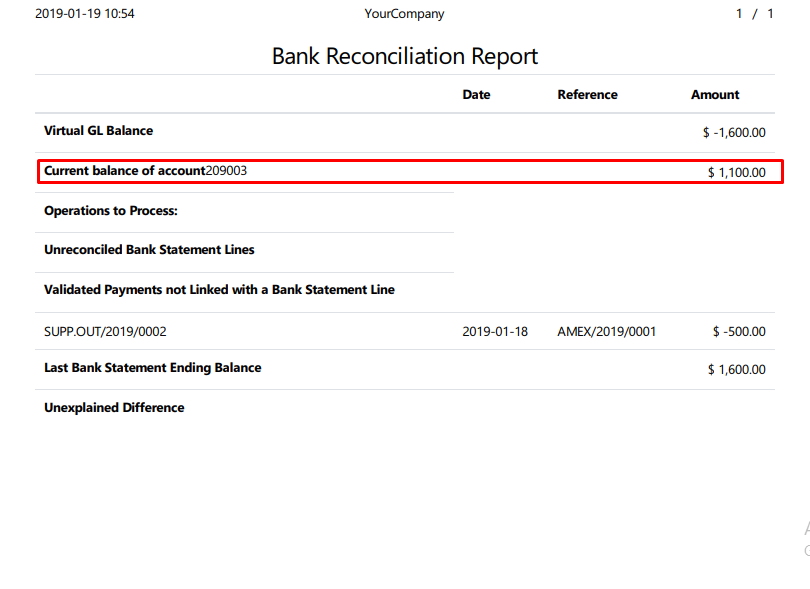
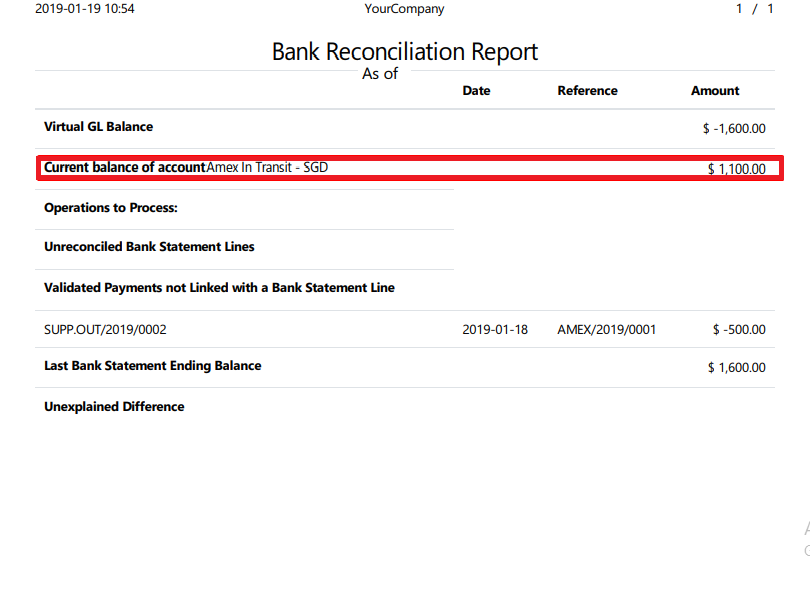
OCA-OD12-957-Migration for Bank Reconciliation Report *Changed popup and added in description *Resolved error while not using parameter. *Added Features in description

diff --git a/skit_addons/skit_bank_reconcil/static/description/index.html b/skit_addons/skit_bank_reconcil/static/description/index.html
@@ -2,16 +2,24 @@
     <div class="oe_row oe_spaced">
         <h2 class="oe_slogan" style="color:#875A7B">Bank Reconciliation Report</h2>
         <div style="margin-left:50px;margin-right:50px">
-        	<h3 class="oe_slogan" style="font-size: 1.3em; line-height: 2em; opacity:unset !important">This application helps you to download Bank Reconciliation Report.</h3>
+        	<h3 class="oe_slogan" style="font-size: 1.3em; line-height: 2em; opacity:unset !important">This application helps you to download Bank Reconciliation Report.<br></br>Reconciliation means matching actual transactions against bank statement.<br></br> This process of confirming the amount in both the company's ledger and in the bank account is called "Bank statement reconciliation".</h3>
+        </div>
+    </div>
+</section>
+<section class="oe_container  oe_dark" style="background-color: rgba(200, 200, 200, 0.14); padding-top: 1px;">
+    <div class="oe_row">
+        <h2 class="oe_slogan" style="color:#875A7B">Features</h2>
+         <div style="margin-left:50px;margin-right:50px">
+         <ul style="list-style-type:square; font-size: 1.3em; line-height: 2em; opacity:unset !important">
+         <li>Allow Bank Reconciliation Manually to reconcile with Bank Statement.</li>
+         <li>Bank Statement Reconciliation is possible against generated payment and receipt.</li>
+         <li>Generate PDF report with unreconciled statement line (came in bank statement but not matched with payment) and payment not linked with bank statement (Payments not come in statement).</li>
+         <li>Report will work based on as of date logic.</li>
+         </ul>
         </div>
     </div>
 </section>
 
-<section class="oe_container oe_dark">
-        <div class="oe_slogan">
-                <a  class="btn btn-primary btn-lg mt8" style="color: #FFFFFF !important;border-radius: 0;" href="https://youtu.be/KmJnc5t7Qok" target="_blank"> <i class="fa fa-youtube"></i> Watch the Video </a>
-        </div>
-</section>
 <section class="oe_container  oe_dark" style="background-color: rgba(200, 200, 200, 0.14); padding-top: 1px;">
     <div class="oe_row">
         <h2 class="oe_slogan" style="color:#875A7B">Purchase Order</h2>
@@ -42,7 +50,7 @@
         	<h3 class="oe_slogan" style="font-size: 1.3em; line-height: 2em; opacity:unset !important">In accounting dashboard, there will be a module name "Reporting"-> Bank Reconciliation. While click on that menu Bank Reconciliation, Popup will be shown, from that have to choose journal which you want.Then click on print button report will download.</h3>
         </div>
         <div>
-            <img class="img-border img-responsive thumbnail oe_picture oe_gif" src="popup.png" />
+            <img class="img-border img-responsive thumbnail oe_picture oe_gif" src="menupopup.png" />
         </div>
     </div>
 </section>
@@ -52,7 +60,7 @@
         	<h3 class="oe_slogan" style="font-size: 1.3em; line-height: 2em; opacity:unset !important">Accounting Dashboard where for specific Journal you will find 'Difference' label, while click on difference label popup will show to download report for that journal.</h3>
         </div>
         <div>
-            <img class="img-border img-responsive thumbnail oe_picture oe_gif" src="differpopup.png" />
+            <img class="img-border img-responsive thumbnail oe_picture oe_gif" src="dashboardpopup.png" />
         </div>
     </div>
 </section>

diff --git a/skit_addons/skit_bank_reconcil/report/reconcil_report.py b/skit_addons/skit_bank_reconcil/report/reconcil_report.py
@@ -12,22 +12,37 @@ class SkitBankReconcilReport(models.AbstractModel):
         data = data if data is not None else {}
         if(data.get('skit_report_type') == 'pdf'):
             journal_id = data.get('journal_id')
+            date_from = data.get('date_from')
+            date_to = data.get('date_to')
         else:
             journal_id = data['form']['journal_id'][0]
+            date_from = data['form']['date_from']
+            date_to = data['form']['date_to']
         journal = self.env['account.journal'].search([('id','=', journal_id)])
         last_bank_stmt = self.env['account.bank.statement'].search([('journal_id', '=', journal.id)], order="date desc, id desc", limit=1)
         last_balance = last_bank_stmt and last_bank_stmt[0].balance_end or 0
         
-        gl_code = journal.default_debit_account_id.code
+        gl_code = journal.default_debit_account_id.name
         default_debit_acc_id = journal.default_debit_account_id.id
         
         #Virtual GL Balance:
         account_ids = tuple(filter(None, [journal.default_debit_account_id.id, journal.default_credit_account_id.id]))
         amount_field = 'balance' if (not journal.currency_id or journal.currency_id == journal.company_id.currency_id) else 'amount_currency'
         current_balance = 0
+        ids =str(account_ids)
         if account_ids:
-            query = """SELECT sum(%s) FROM account_move_line WHERE account_id in %%s AND date <= %%s;""" % (amount_field)
-            self.env.cr.execute(query, (account_ids,fields.Date.today(),))
+            query = """SELECT sum("""+amount_field+""") FROM account_move_line WHERE account_id in """+(ids)
+            list=[]
+            list.append(account_ids)
+            if date_from:
+                date_frompara = "'"+date_from+"'"
+                query = query+(""" AND date >="""+date_frompara)
+                list.append(date_from)
+            if date_to:
+                date_toparam = "'"+date_to+"'"
+                query=query+(""" AND date <=""" +date_toparam)
+                list.append(date_to)
+            self.env.cr.execute(query, [],)
             query_results = self.env.cr.dictfetchall()
             if query_results and query_results[0].get('sum') != None:
                 current_balance = query_results[0].get('sum')
@@ -48,22 +63,43 @@ class SkitBankReconcilReport(models.AbstractModel):
         virtual_gl_balance = all_lines - already_reconciled
         
         #Unreconciled Bank Statement Lines
+        journal_id = str(journal.id)
+        company_id = str(self.env.user.company_id.id)
         sql_query = """SELECT stl.id 
-                        FROM account_bank_statement_line stl  
-                        WHERE account_id IS NULL AND journal_id=%s AND not exists (select 1 from account_move am join account_move_line aml on aml.move_id = am.id
-                         where aml.statement_line_id  = stl.id)
-                        AND company_id = %s
-                    """
-        params = (journal.id,self.env.user.company_id.id,)
-        
-        sql_query += ' ORDER BY stl.id'
-        self.env.cr.execute(sql_query, params)
+                        FROM account_bank_statement_line stl  \
+                        where account_id IS NULL AND journal_id= """+journal_id+""" \
+                        AND not exists (select 1 from account_move am join account_move_line aml on aml.move_id = am.id where aml.statement_line_id  = stl.id) \
+                        AND company_id= """+company_id
+                    
+#         pararms = (journal.id,self.env.user.company_id.id,)
+        list=[]
+        list.append({'journal_id':journal.id,'company_id' :self.env.user.company_id.id,})
+        if date_from:
+            date_fromparam = "'"+date_from+"'"
+            sql_query = sql_query+(""" AND date::date >="""+date_fromparam)
+            list.append(date_from)
+        if date_to: 
+            date_toparam = "'"+date_to+"'"
+            sql_query=sql_query+(""" AND date::date <="""+date_toparam)
+            list.append(date_to)
+        sql_query += """ ORDER BY stl.id"""
+        self.env.cr.execute(sql_query, [],)
+        print(sql_query)
         st_lines_left = self.env['account.bank.statement.line'].browse([line.get('id') for line in self.env.cr.dictfetchall()])
         
         #Validated Payments not linked with a Bank Statement Line
-        pay_move_line = self.env['account.move.line'].search([('account_id', '=', default_debit_acc_id),
-                                                              ('full_reconcile_id','=', False),
-                                                              ('statement_id', '=', False)])
+        domain_checks_to_print = [
+                                  ('account_id', '=', default_debit_acc_id),
+                                  ('full_reconcile_id','=', False), 
+                                  ('statement_id','=',False),            
+            
+        ]
+        if date_from:
+            domain_checks_to_print.append(('date', '>=', date_from),)
+        if date_to:
+            domain_checks_to_print.append(('date', '<=', date_to),)
+        pay_move_line = self.env['account.move.line'].search(domain_checks_to_print)
+        
         payment_lines=[]
         for pay in pay_move_line:
                 pay_dict = {}

diff --git a/skit_addons/skit_bank_reconcil/wizard/reconcil_report_wizard.py b/skit_addons/skit_bank_reconcil/wizard/reconcil_report_wizard.py
@@ -5,25 +5,34 @@ from odoo import api, models, fields
 class skit_reconcil_report(models.TransientModel):
     _name = "bank.reconcil.rep"
     
+    date_from = fields.Date(string='Start Date')
+    date_to = fields.Date(string='End Date')
     journal_id = fields.Many2one('account.journal',
                                     domain=[('type', '=', 'bank')],
                                     string='Journal',
                                     help="The accounting journal corresponding to this bank account.")
     @api.multi
     def print_report(self):
+        print ("sdfsgdfhfg")
         active_ids = self.env.context.get('active_ids', [])
         journal_id = self.journal_id.id
+        date_from =self.date_from
+        date_to =self.date_to
         datas = {
         'ids': active_ids,
         'model': 'account.payment',
         'form': self.read(),
         'journal_id':journal_id,
+        'date_from':date_from,
+        'date_to':date_to,
         'skit_report_type': 'pdf'
         }
         return self.env.ref('skit_bank_reconcil.bank_reconciliation_report').report_action(self, data=datas)
 
     def _build_contexts(self, data):
         result = {}
+        result['date_from'] = 'date_from' in data['form'] and data['form']['date_from'] or False
+        result['date_to'] = 'date_to' in data['form'] and data['form']['date_to'] or False
         result['journal_id'] = 'journal_id' in data['form'] and data['form']['journal_id'] or False
         return result
      

diff --git a/skit_addons/skit_bank_reconcil/wizard/difference_amount.py b/skit_addons/skit_bank_reconcil/wizard/difference_amount.py
@@ -17,13 +17,14 @@ class account_journal(models.Model):
        
     @api.multi
     def print_report(self):
-        
+        print ("test")
         return {
             'type': 'ir.actions.act_window',
+            'name':'Bank Reconciliation',
             'view_type': 'form',
             'view_mode': 'form',
             'res_model': 'bank.reconcil.rep',
-            'view_id': self.env.ref('skit_bank_reconcil.view_bank_reconciliation_diff').id,
+            'view_id': self.env.ref('skit_bank_reconcil.view_bank_reconciliation').id,
             'context': {'default_journal_id': self.id,
                         },
             'create': False,

diff --git a/skit_addons/skit_bank_reconcil/__manifest__.py b/skit_addons/skit_bank_reconcil/__manifest__.py
@@ -5,7 +5,7 @@
     'version': '1.0',
     'author': 'Srikesh Infotech',
     'description': """
-            Bank Reconciliation Report
+            This Module helps to generate Bank Reconciliation report.
     """,
     'category': 'Accounting',
     'license': "AGPL-3",
@@ -18,7 +18,8 @@
              'wizard/reconcil_report_wizard.xml',
              'report/reconcil_report_temp.xml',
              'report/reconcil_report.xml',
-             'wizard/difference_amount.xml'
+             'wizard/difference_amount.xml',
+             'views/popup_template.xml'
             ],
     'auto_install': False,
     'application': True,
